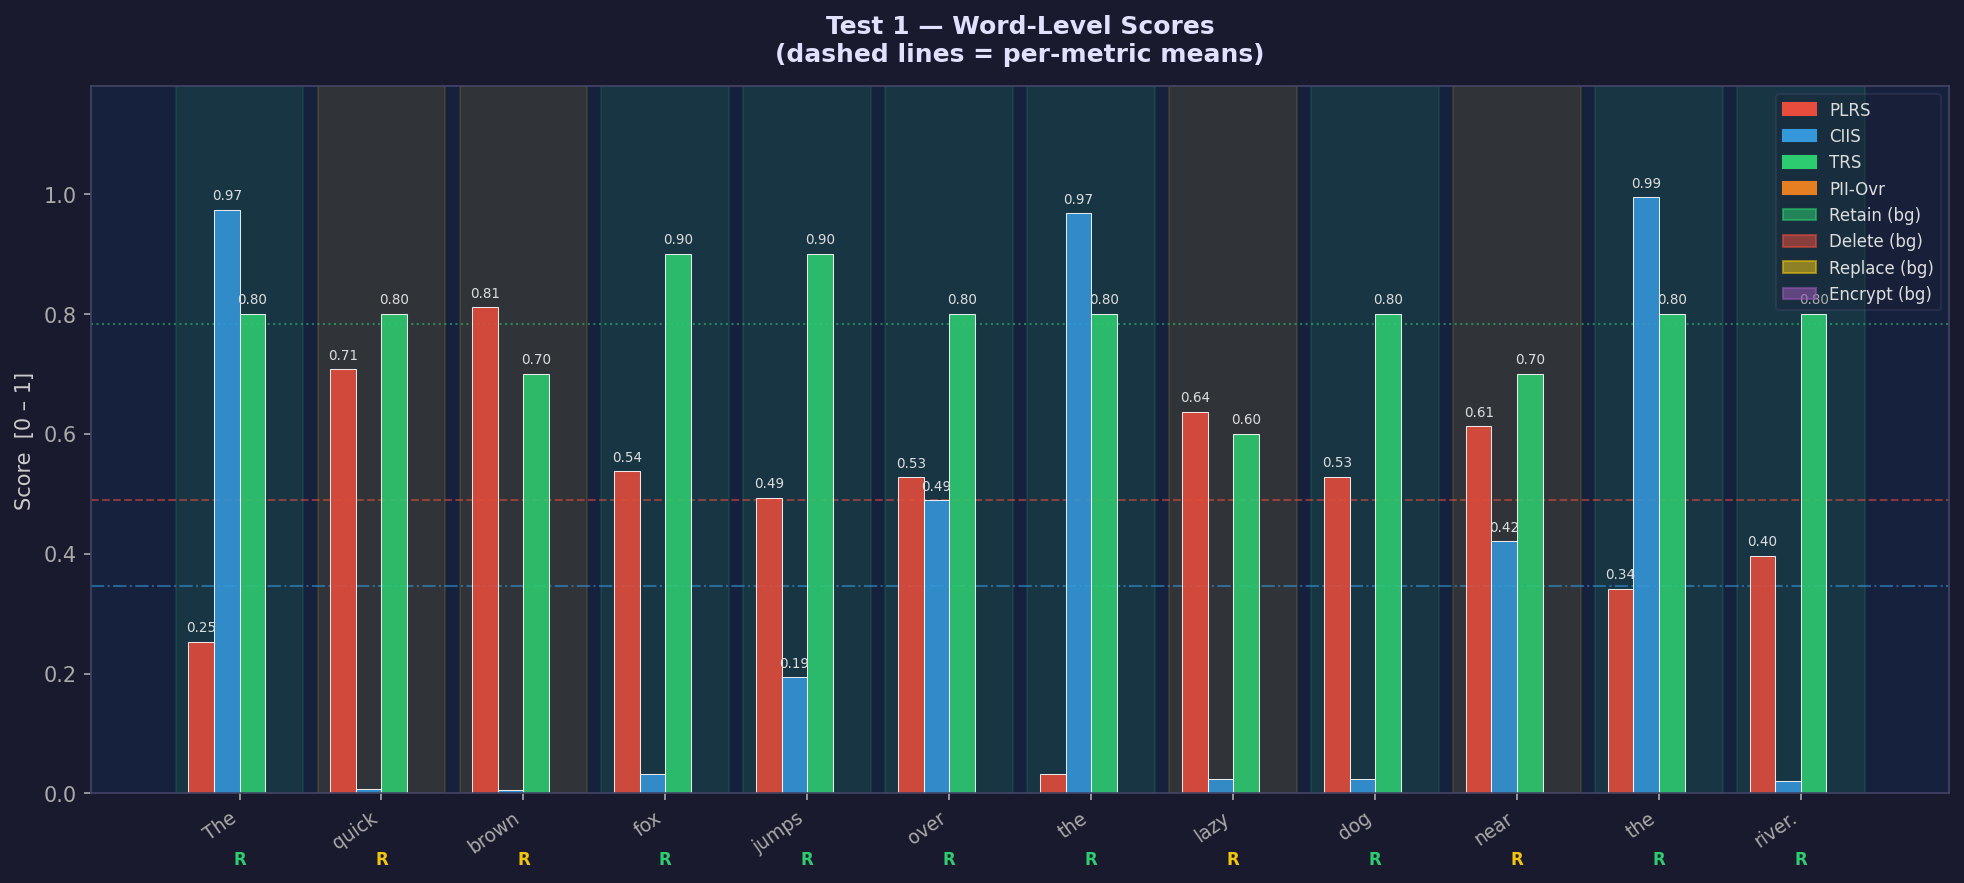
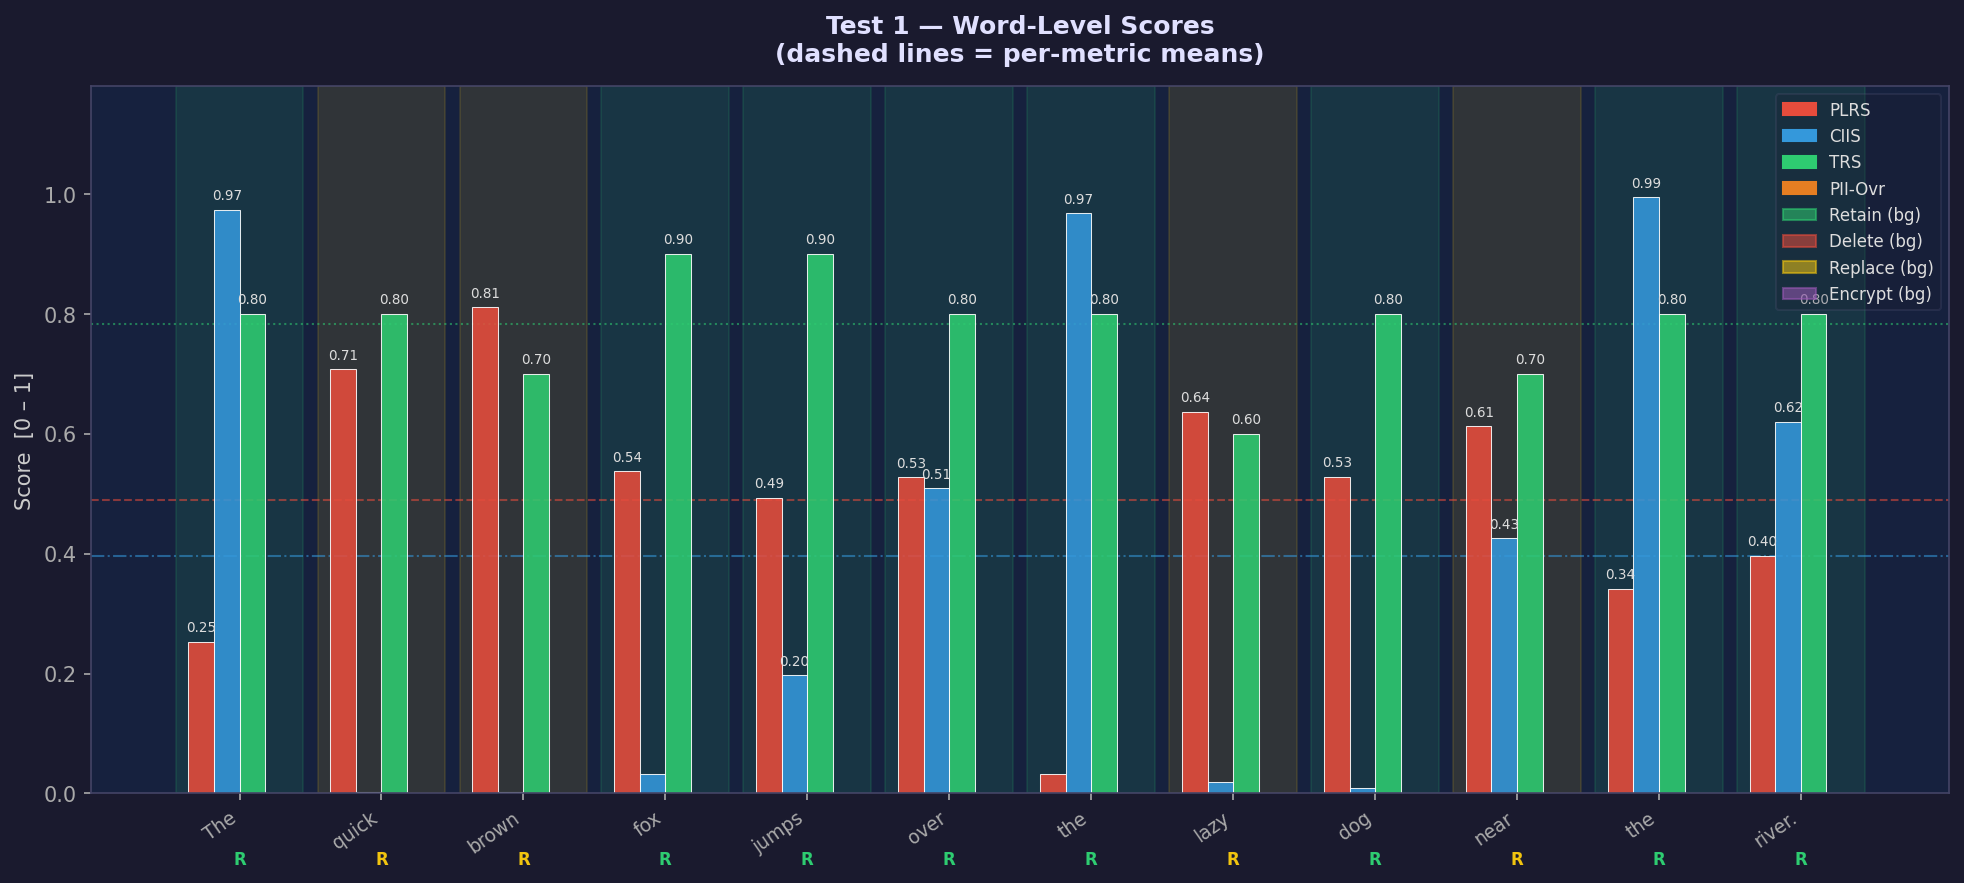
perfect

Changed region(s): [[0.9007, 0.4587, 0.9318, 0.8867], [0.4659, 0.5198, 0.4969, 0.581], [0.7454, 0.581, 0.7765, 0.6116]]

diff --git a/backend/routers/transformer.py b/backend/routers/transformer.py
@@ -71,6 +71,11 @@ NER_ENTITY_BOOST = 0.25
 NER_PROPN_BOOST  = 0.15
 NER_FUSION_WEIGHT = 0.20
 
+# Replace-action quality controls.
+REPLACE_MIN_FREQUENCY = 2
+REPLACE_MIN_SEMANTIC_SIM = 0.90
+REPLACE_MAX_CANDIDATES = 10
+
 # ── Llama-3 Backbone (TRS + Encrypt Self-Recommendation) ─────────────
 LLAMA_MODEL_NAME          = "mlx-community/Meta-Llama-3-8B-Instruct-4bit"
 TRS_NUM_ITERS             = 5           # k in TRS(w_i) = (1/k) Σ LLM_j(w_i|P)
@@ -113,6 +118,17 @@ PII_PATTERNS: List[Tuple[re.Pattern, float]] = [
 # are excluded because they tag non-identifying values (ages, stages,
 # percentages) that should NOT be auto-escalated.
 SENSITIVE_NER_LABELS = {"PERSON", "ORG", "GPE", "LOC", "MONEY"}
+
+# spaCy POS to WordNet POS mapping for POS-safe synonym retrieval.
+_SPACY_TO_WN_POS: Dict[str, str] = {
+    "NOUN": wn.NOUN,
+    "VERB": wn.VERB,
+    "ADJ": wn.ADJ,
+    "ADV": wn.ADV,
+}
+
+# Lazy Brown-corpus frequency cache used to avoid obscure replacements.
+_BROWN_FREQ_CACHE: Optional[Dict[str, int]] = None
 
 
 # ── Global Model Registry ──────────────────────────────────────────────────────
@@ -300,6 +316,68 @@ def get_word_char_spans(words: List[str], text: str) -> List[Tuple[int, int]]:
         spans.append((idx, idx + len(w)))
         cursor = idx + len(w)
     return spans
+
+
+def _get_brown_frequency_map() -> Dict[str, int]:
+    """Load Brown word frequencies once for replacement naturalness scoring."""
+    global _BROWN_FREQ_CACHE
+    if _BROWN_FREQ_CACHE is None:
+        from nltk.corpus import brown
+        nltk.download("brown", quiet=True)
+        freq: Dict[str, int] = {}
+        for w in brown.words():
+            lw = w.lower()
+            if lw.isalpha():
+                freq[lw] = freq.get(lw, 0) + 1
+        _BROWN_FREQ_CACHE = freq
+    return _BROWN_FREQ_CACHE
+
+
+def _word_frequency(word: str) -> int:
+    return int(_get_brown_frequency_map().get(word.lower(), 0))
+
+
+def _frequency_score(word: str) -> float:
+    """Frequency proxy in [0, 1] for lexical naturalness."""
+    freq = _word_frequency(strip_punctuation(word))
+    return float(np.clip(np.log1p(freq) / np.log1p(5000.0), 0.0, 1.0))
+
+
+def _apply_surface_form(source_word: str, replacement: str) -> str:
+    """Preserve source casing and edge punctuation for a replacement token."""
+    m = re.match(r"^([^\w]*)([\w'-]+)([^\w]*)$", source_word)
+    if not m:
+        return replacement
+
+    prefix, core, suffix = m.groups()
+    rep = replacement
+    if core.isupper():
+        rep = rep.upper()
+    elif core.istitle():
+        rep = rep.title()
+    return f"{prefix}{rep}{suffix}"
+
+
+def _get_word_pos_tags(words: List[str], prompt: str, spacy_nlp: spacy.Language) -> List[str]:
+    """Map each split-word to the best-overlap spaCy POS tag."""
+    doc = spacy_nlp(prompt)
+    spans = get_word_char_spans(words, prompt)
+    tags: List[str] = []
+
+    for ws, we in spans:
+        best_overlap = 0
+        best_pos = "X"
+        for tok in doc:
+            if tok.is_space:
+                continue
+            ts, te = tok.idx, tok.idx + len(tok.text)
+            overlap = max(0, min(we, te) - max(ws, ts))
+            if overlap > best_overlap:
+                best_overlap = overlap
+                best_pos = tok.pos_
+        tags.append(best_pos)
+
+    return tags
 
 
 def _robust_scale_1d(arr: np.ndarray) -> np.ndarray:
@@ -752,18 +830,191 @@ def compute_contextual_coherence(
 
 
 def get_wordnet_synonyms(word: str, n: int = 5) -> List[str]:
-    """WordNet synonyms — single-token only, excluding the word itself."""
+    """
+    WordNet synonyms with optional POS filtering and rarity suppression.
+
+    `target_pos` should be a spaCy POS tag (NOUN/VERB/ADJ/ADV).
+    """
+    return get_wordnet_synonyms_with_pos(word, n=n, target_pos=None)
+
+
+def get_wordnet_synonyms_with_pos(
+    word: str,
+    n: int = 5,
+    target_pos: Optional[str] = None,
+) -> List[str]:
+    """POS-safe WordNet synonyms ranked by corpus frequency."""
+    clean = strip_punctuation(word)
+    wn_pos = _SPACY_TO_WN_POS.get(target_pos or "")
+    synsets = wn.synsets(clean, pos=wn_pos) if wn_pos else wn.synsets(clean)
+
     syns: List[str] = []
-    for synset in wn.synsets(strip_punctuation(word)):
+    for synset in synsets:
         for lemma in synset.lemmas():
             cand = lemma.name().replace("_", " ")
-            if cand.lower() != word.lower() and " " not in cand:
+            if cand.lower() != clean.lower() and " " not in cand and cand.isalpha():
                 syns.append(cand)
+
     seen, unique = set(), []
     for s in syns:
         if s.lower() not in seen:
             seen.add(s.lower()); unique.append(s)
-    return unique[:n]
+
+    if not unique:
+        return []
+
+    natural = [s for s in unique if _word_frequency(s) >= REPLACE_MIN_FREQUENCY]
+    ranked = natural if natural else unique
+    ranked.sort(key=lambda s: (_frequency_score(s), -abs(len(s) - len(clean))), reverse=True)
+    return ranked[:n]
+
+
+@torch.no_grad()
+def _sentence_semantic_similarity(a: str, b: str) -> float:
+    """Cosine similarity of BERT [CLS] sentence embeddings."""
+    emb = embed_sentences_bert(
+        [a, b],
+        registry.bert_tokenizer,
+        registry.bert_model,
+        registry.device,
+    ).numpy()
+    va, vb = emb[0], emb[1]
+    denom = (np.linalg.norm(va) * np.linalg.norm(vb)) + 1e-9
+    return float(np.dot(va, vb) / denom)
+
+
+@torch.no_grad()
+def _sentence_fluency_score(text: str) -> float:
+    """Higher is better; computed as negative mean GPT-2 token NLL."""
+    tok = registry.gpt2_tokenizer
+    mdl = registry.gpt2_model
+    if tok.pad_token is None:
+        tok.pad_token = tok.eos_token
+
+    enc = tok(text, return_tensors="pt")
+    enc = {k: v.to(registry.device) for k, v in enc.items()}
+    out = mdl(**enc)
+
+    logits = out.logits[0, :-1, :]
+    target = enc["input_ids"][0, 1:]
+    if len(target) == 0:
+        return -5.0
+
+    probs = F.softmax(logits, dim=-1)
+    token_probs = probs[range(len(target)), target]
+    mean_nll = float((-torch.log2(token_probs + 1e-9)).mean().item())
+    return -mean_nll
+
+
+def _llm_suggest_contextual_replacement(
+    source_word: str,
+    source_pos: str,
+    sentence: str,
+) -> Optional[str]:
+    """Optional one-token replacement from LLM with strict constraints."""
+    query = (
+        "You are performing lexical substitution in one sentence.\n"
+        "Return one COMMON English replacement token for the target word.\n"
+        "Rules:\n"
+        "- Keep the same part-of-speech.\n"
+        "- Preserve sentence meaning.\n"
+        "- One token only (letters only).\n"
+        "- Avoid rare/archaic/technical words.\n"
+        "- Return JSON only: {\"replacement\":\"word\"}.\n\n"
+        f"Sentence: \"{sentence}\"\n"
+        f"Target word: \"{strip_punctuation(source_word)}\"\n"
+        f"Target POS: {source_pos}\n"
+    )
+
+    try:
+        response = _llama_generate(query, max_tokens=24)
+        match = re.search(r'\{[\s\S]*\}', response)
+        if match:
+            parsed = json.loads(match.group(0))
+            replacement = str(parsed.get("replacement", "")).strip()
+        else:
+            fallback = re.search(r"([A-Za-z]+)", response)
+            replacement = fallback.group(1) if fallback else ""
+
+        if not replacement or not replacement.isalpha():
+            return None
+        if _contains_sensitive_patterns(replacement):
+            return None
+        return replacement.lower()
+    except Exception:
+        return None
+
+
+def _select_replacement_word(
+    working_words: List[str],
+    word_idx: int,
+    original_prompt: str,
+    source_pos: str,
+) -> str:
+    """Context-aware lexical substitution for Replace action."""
+    source_word = working_words[word_idx]
+    if source_pos not in {"NOUN", "VERB", "ADJ", "ADV"}:
+        return source_word
+
+    candidate_pool = get_wordnet_synonyms_with_pos(
+        source_word,
+        n=REPLACE_MAX_CANDIDATES,
+        target_pos=source_pos,
+    )
+
+    llm_candidate = _llm_suggest_contextual_replacement(
+        source_word,
+        source_pos,
+        " ".join(working_words),
+    )
+    if llm_candidate and llm_candidate not in candidate_pool:
+        candidate_pool.append(llm_candidate)
+
+    if not candidate_pool:
+        return source_word
+
+    evaluated: List[Tuple[str, float, float, float]] = []
+    for cand in candidate_pool:
+        surface = _apply_surface_form(source_word, cand)
+        if strip_punctuation(surface).lower() == strip_punctuation(source_word).lower():
+            continue
+
+        trial_words = working_words.copy()
+        trial_words[word_idx] = surface
+        trial_prompt = " ".join(trial_words)
+
+        trial_pos = _get_word_pos_tags(trial_words, trial_prompt, registry.spacy_nlp)[word_idx]
+        if trial_pos != source_pos:
+            continue
+
+        sim = _sentence_semantic_similarity(original_prompt, trial_prompt)
+        if sim < REPLACE_MIN_SEMANTIC_SIM:
+            continue
+
+        fluency = _sentence_fluency_score(trial_prompt)
+        freq = _frequency_score(surface)
+        evaluated.append((surface, sim, fluency, freq))
+
+    if not evaluated:
+        return source_word
+
+    if len(evaluated) == 1:
+        return evaluated[0][0]
+
+    fluencies = np.array([x[2] for x in evaluated], dtype=np.float32)
+    f_min, f_max = float(fluencies.min()), float(fluencies.max())
+    f_span = f_max - f_min + 1e-9
+
+    best_word = source_word
+    best_score = -1e9
+    for word, sim, fluency, freq in evaluated:
+        fluency_norm = (fluency - f_min) / f_span
+        score = 0.55 * sim + 0.30 * float(fluency_norm) + 0.15 * freq
+        if score > best_score:
+            best_score = score
+            best_word = word
+
+    return best_word
 
 
 def compute_semantic_distinctiveness(
@@ -921,7 +1172,7 @@ def assign_actions_kmeans(
     """
     Task 4.2 — Deterministic Action Assignment (ALSA Paper Table 1).
 
-    STAGE 1 — PII Hard Override (before K-Means):
+    STAGE 1 — PII Hard Override (before table rules):
         If a word matched a PII regex (pii_override ≥ 0.9) → force Encrypt.
         This guarantees SSNs, emails, phone numbers are ALWAYS masked.
 
@@ -1004,18 +1255,32 @@ def _build_masked_prompt(words: List[str], actions: np.ndarray) -> str:
     Encrypt words become [MASK], Replace uses WordNet synonyms,
     Delete is omitted, Retain is kept verbatim.
     """
-    out: List[str] = []
-    for word, action in zip(words, actions):
-        if action == "Retain":
-            out.append(word)
-        elif action == "Delete":
-            pass
-        elif action == "Replace":
-            syns = get_wordnet_synonyms(word, n=3)
-            out.append(syns[0] if syns else word)
+    return _build_masked_prompt_contextual(words, actions, " ".join(words))
+
+
+def _build_masked_prompt_contextual(
+    words: List[str],
+    actions: np.ndarray,
+    original_prompt: str,
+) -> str:
+    """Action application with context-aware lexical replacement."""
+    out_words = words.copy()
+    pos_tags = _get_word_pos_tags(words, original_prompt, registry.spacy_nlp)
+
+    for i, action in enumerate(actions):
+        if action == "Delete":
+            out_words[i] = ""
         elif action == "Encrypt":
-            out.append(MASK_TOKEN)
-    return " ".join(out)
+            out_words[i] = MASK_TOKEN
+        elif action == "Replace":
+            out_words[i] = _select_replacement_word(
+                out_words,
+                i,
+                original_prompt,
+                pos_tags[i],
+            )
+
+    return " ".join(w for w in out_words if w)
 
 
 def _contains_sensitive_patterns(text: str) -> bool:
@@ -1196,7 +1461,7 @@ async def reconstruct_prompt_with_llm(
         masked_prompt    : str        — intermediate [MASK] version
         encrypt_candidates : List[str] — all candidates considered
     """
-    masked_prompt = _build_masked_prompt(words, actions)
+    masked_prompt = _build_masked_prompt_contextual(words, actions, original_prompt)
 
     # If no [MASK] tokens, no self-recommendation needed
     if MASK_TOKEN not in masked_prompt:
@@ -1363,14 +1628,14 @@ async def analyse_prompt(body: PromptRequest):
 
 TEST_CASES = [
     # 1. Standard everyday sentence
-    "The quick brown fox jumps over the lazy dog near the river.",
+    # "The quick brown fox jumps over the lazy dog near the river.",
 
     # 2. Heavy PII — personal information + SSN
     "My name is John Smith and my social security number is 432-91-8765.",
 
-    "You can reach Dr. Emily Carter at random34241@gmail.com or call her private cell at 555-019-8372",
+    # "You can reach Dr. Emily Carter at random34241@gmail.com or call her private cell at 555-019-8372",
 
-    "Patient Sarah Jenkins, born on 11/14/1985, recently tested positive for the BRCA1 genetic mutation",
+    # "Patient Sarah Jenkins, born on 11/14/1985, recently tested positive for the BRCA1 genetic mutation",
 
     # 3. Highly technical jargon
     # "The convolutional neural network uses backpropagation and gradient "
